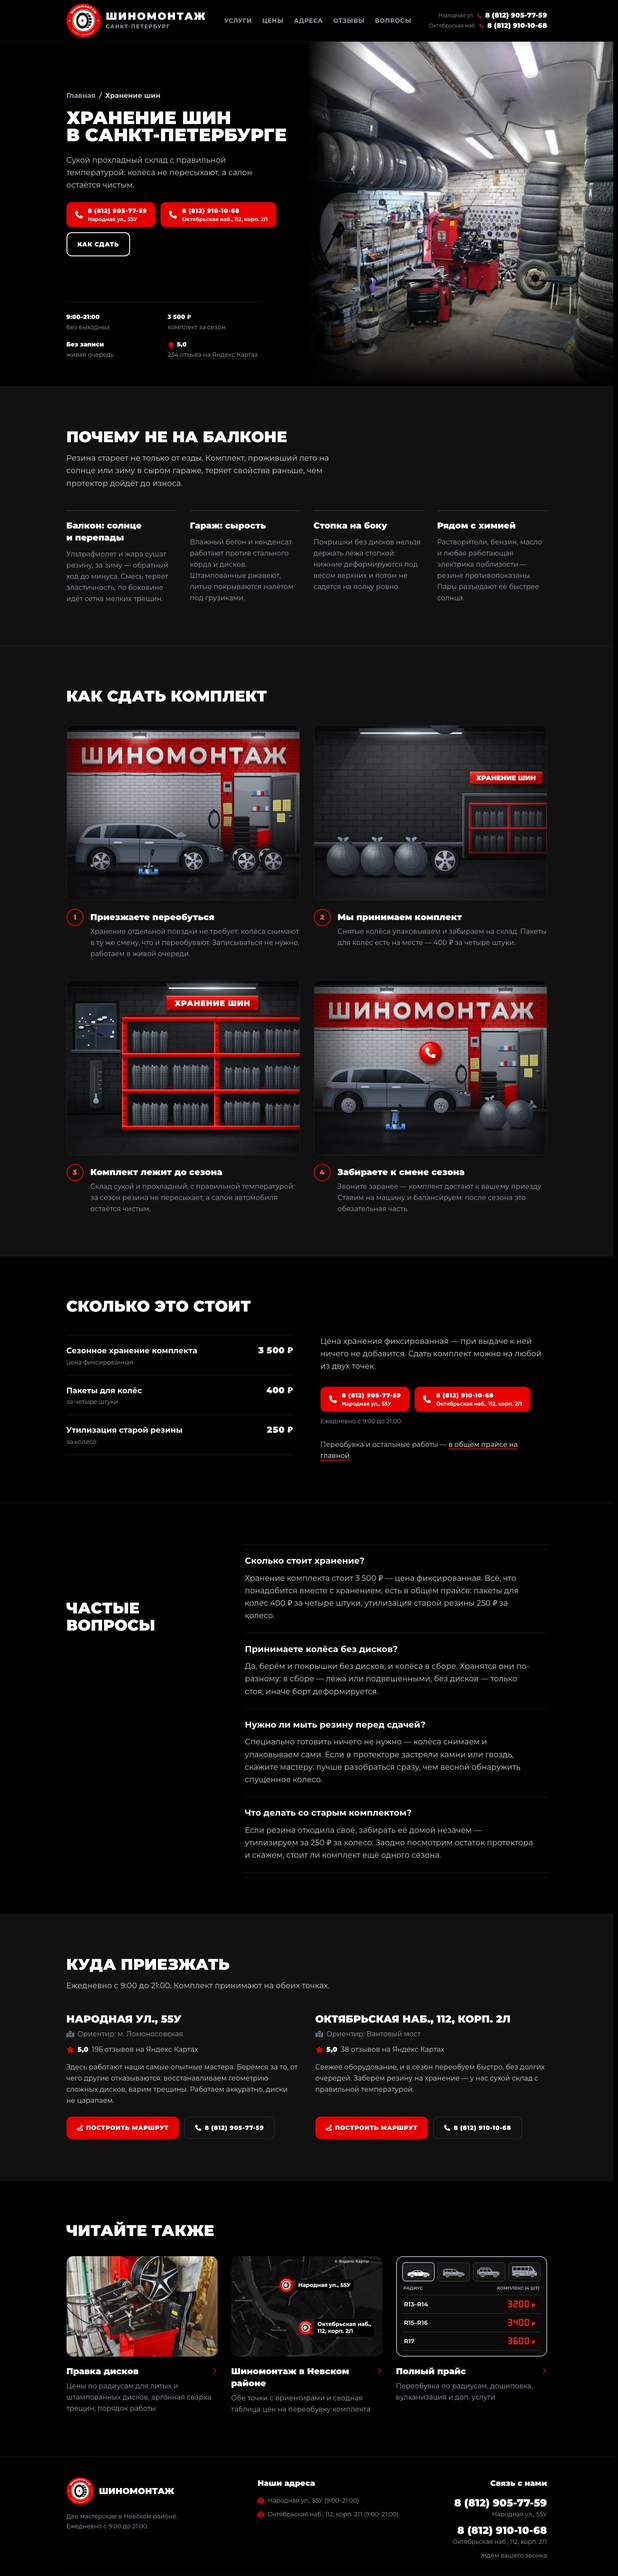
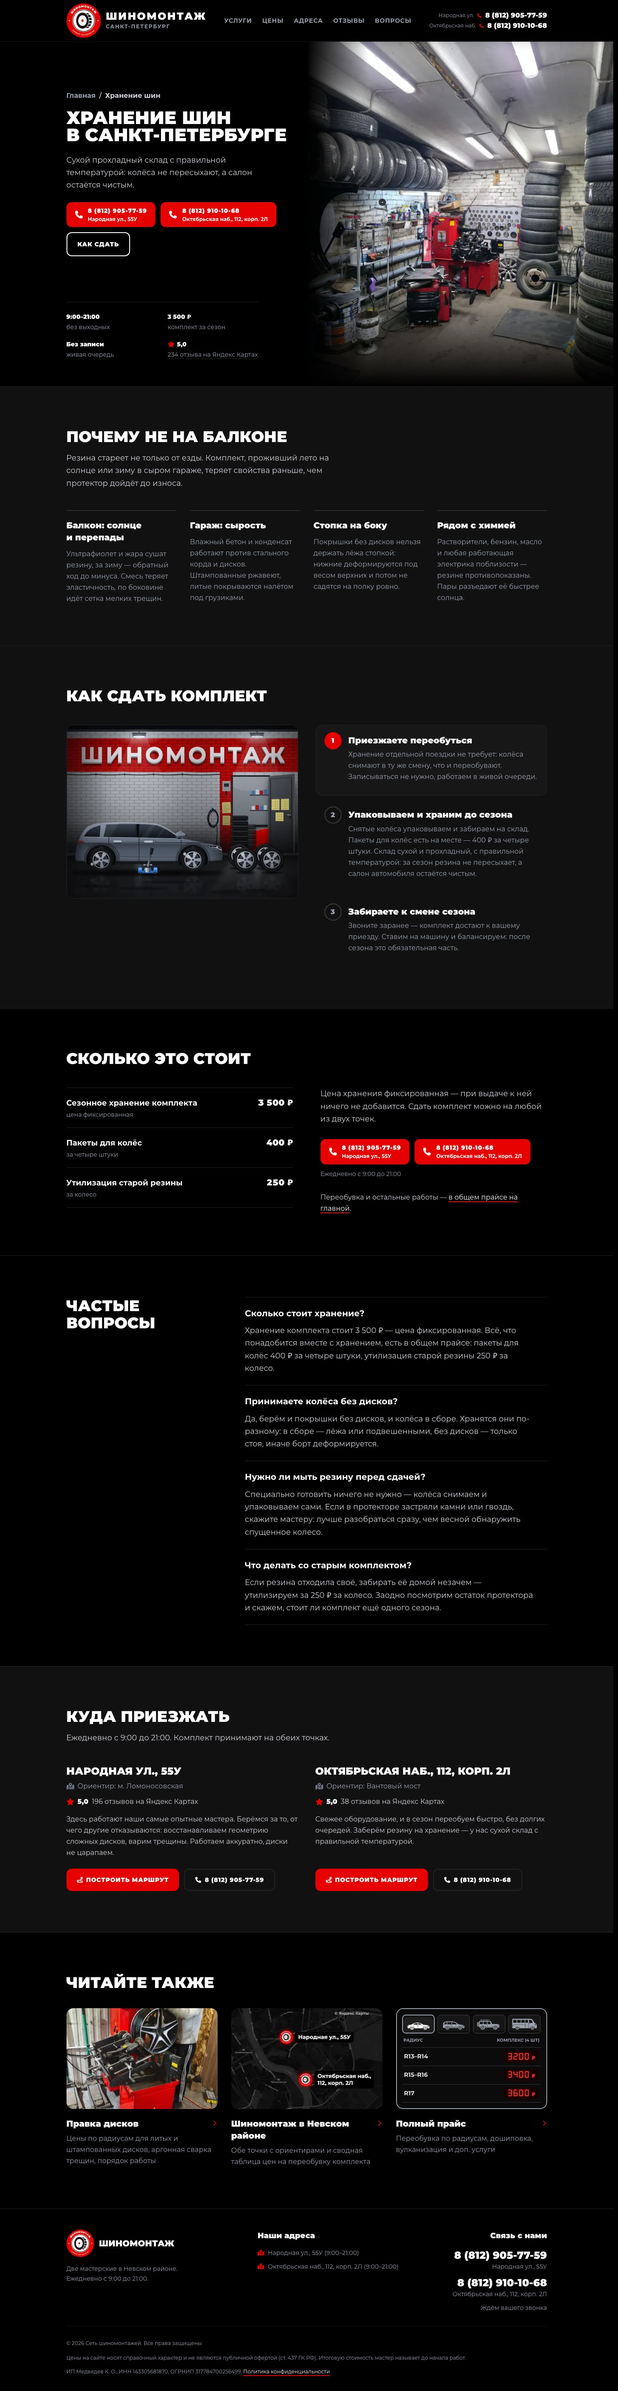
Шиномонтаж: кадры с плеером шагов и семь роликов в «Что сделал»
Съёмка склейкой ставила липкий блок на место через position: relative,
но оставляла ему top — окно плеера шагов съезжало вниз на свой отступ
под шапку. Теперь top тоже сбрасывается.

diff --git a/src/data/works.ts b/src/data/works.ts
@@ -12,7 +12,8 @@
 // - шиномонтаж: README.md, remotion/README.md; вес страницы — замер живого
 //   сайта в gzip, скорость — PageSpeed Insights по живому сайту (02.11.2026);
 //   восемь роликов к шагам перерисованы и пересняты в кадрах 04.11.2026,
-//   кадры правки и хранения пересняты 05.11.2026 (кирпич в мастерской);
+//   кадры правки и хранения пересняты 05.11.2026 (кирпич в мастерской), в
+//   тот же день — ещё раз: шаги стали плеером, роликов семь (хранение — три шага);
 // - мойка: README.md, src/data/content.ts, src/pages/privacy.astro; вес
 //   страницы, свой JS и ролики — с живого сайта (04.11.2026);
 // - ТИ: README.md;
@@ -151,7 +152,7 @@ export const works: Work[] = [
       "Цены хранятся в одном месте: из него собираются таблица, карточки для телефона и внутренние страницы - менять цену нужно один раз",
       "Три страницы под популярные запросы: правка дисков, хранение шин и шиномонтаж в Невском районе",
       "Рейтинг с Яндекс Карт обновляется автоматически, а карта загружается, только когда посетитель приближается к ней, - страница не тормозит",
-      "Восемь анимированных роликов к шагам правки дисков и хранения шин - они воспроизводятся, только когда видны на экране",
+      "Семь анимированных роликов к шагам правки дисков и хранения шин - они идут по очереди рядом со списком шагов и только когда видны на экране",
     ],
     metrics: [
       { value: "в 6,4 раза", label: "легче стала главная после пересборки", visual: { type: "bars", before: 314, after: 49, unit: "КБ" } },
